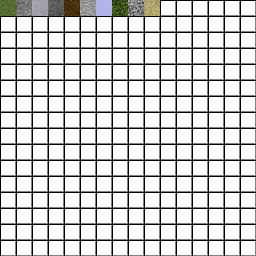
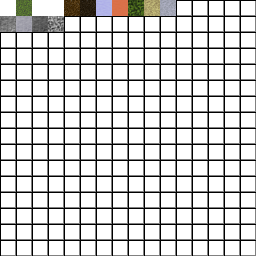
perlin gen

diff --git a/src/level.js b/src/level.js
@@ -1,4 +1,5 @@
 import { game } from "./main.js";
+import noise from "./lib/perlin.js";
 import { random } from "./lib/random.js";
 
 const g_tileMap = new Image();
@@ -81,13 +82,52 @@ function render() {
 }
 
 function generate() {
-    const seed = (Math.random() * 2 ** 32) >>> 0;
-    const prng = random.getPRNG(seed);
-    
-    game.level.seed = seed;
+    const types = Object.freeze({
+        flat: 0,
+        random: 1,
+        noise: 2
+    });
 
-    for (let i = 0; i < game.level.area; ++i) {
-        //game.level.tiles[i] = tiles.stone;
-        game.level.tileIds[i] = random.getRandomInt(prng, 0, game.tiles.ids.length);
+    const scale = 0.1;
+    const type = types.noise;
+
+    game.level.seed = (Math.random() * 2 ** 32) >>> 0;
+
+    let prng;
+    if (type == types.random) {
+        prng = random.getPRNG(game.level.seed);
+    }
+
+    if (type == types.noise) {
+        noise.seed(game.level.seed);
+    }
+
+    let i = 0;
+    for (let y = 0; y < game.level.height; ++y) {
+        for (let x = 0; x < game.level.width; ++x) {
+            switch (type) {
+                case types.flat:
+                    game.level.tileIds[i] = game.tiles.grass;
+                    break;
+                case types.random:
+                    game.level.tileIds[i] = random.getRandomInt(prng, 0, game.tiles.ids.length);
+                    break;
+                case types.noise:
+                    const n = (noise.perlin2(x * scale, y * scale) + 1) / 2;
+                    if (n > 0.6) {
+                        game.level.tileIds[i] = game.tiles.stone;
+                    } else if (n > 0.4) {
+                        game.level.tileIds[i] = game.tiles.grass;
+                    } else {
+                        game.level.tileIds[i] = game.tiles.sand;
+                    }
+                    break;
+                default:
+                    game.level.tileIds[i] = game.tiles.void;
+                    console.error("no valid type provided");
+            }
+
+            ++i;
+        }
     }
 }

diff --git a/src/tiles.js b/src/tiles.js
@@ -4,23 +4,33 @@ export function initTiles() {
     const tiles = [
         {
             id: 0,
-            index: 1,
-            name: "stone",
+            index: 0,
+            name: "void",
         },
         {
             id: 1,
+            index: 18,
+            name: "stone",
+        },
+        {
+            id: 2,
             index: 4,
             name: "dirt",
         },
         {
-            id: 2,
-            index: 0,
+            id: 3,
+            index: 1,
             name: "grass"
         },
         {
-            id: 3,
+            id: 4,
             index: 9,
             name: "sand"
+        },
+        {
+            id: 5,
+            index: 10,
+            name: "clay"
         }
     ];
 
@@ -29,6 +39,13 @@ export function initTiles() {
     const names = tiles.map(x => x.name);
 
     return {
+        void: 0,
+        stone: 1,
+        dirt: 2,
+        grass: 3,
+        sand: 4,
+        clay: 5,
+
         getIndex,
         getName,
         getIdsFromIndex,